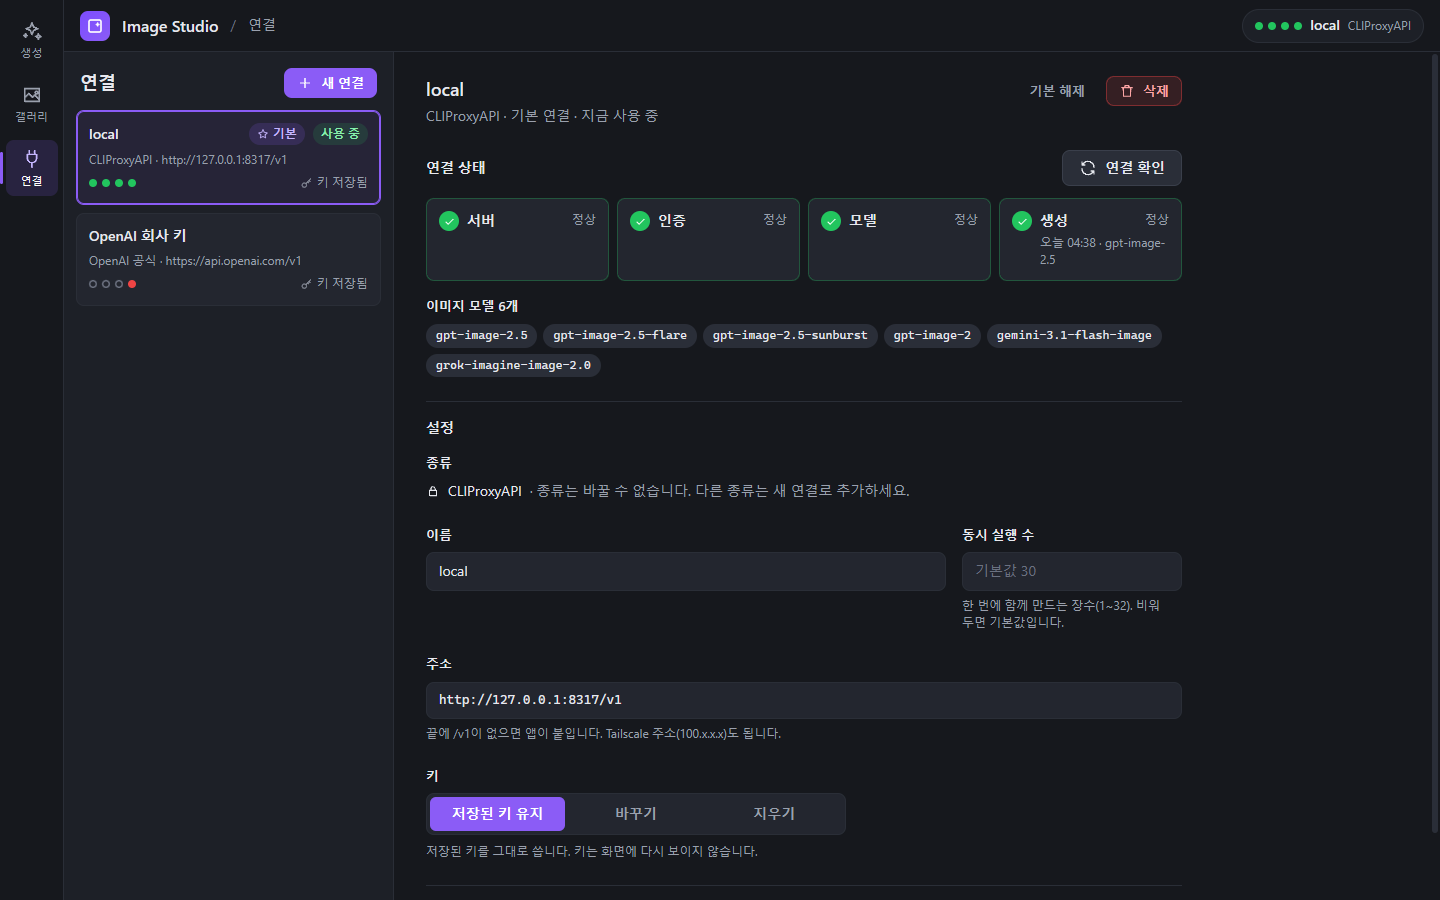
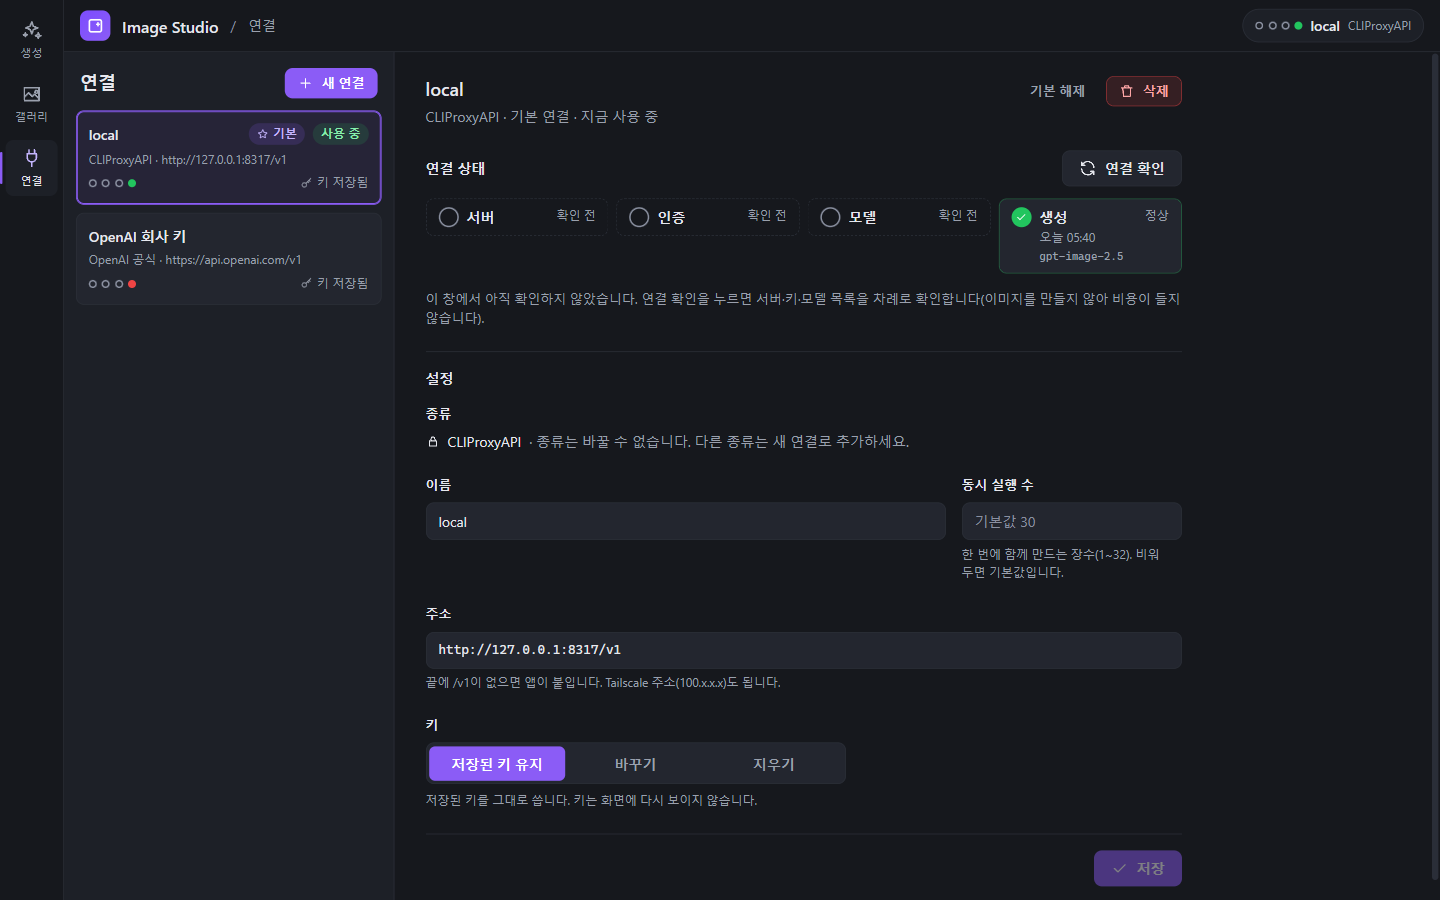
fix(studio): default to high quality and refresh screenshots

diff --git a/apps/studio/src/lib/generateForm.test.ts b/apps/studio/src/lib/generateForm.test.ts
@@ -414,3 +414,10 @@ describe('run header', () => {
     expect(input.resume).toBe(false);
   });
 });
+
+describe('emptyForm', () => {
+  it('starts at the project default for final images: 1920x1080, high quality, one image', () => {
+    const f = emptyForm();
+    expect([f.size, f.quality, f.count]).toEqual(['1920x1080', 'high', 1]);
+  });
+});

diff --git a/apps/studio/src/lib/generateForm.ts b/apps/studio/src/lib/generateForm.ts
@@ -71,7 +71,7 @@ export function emptyForm(): GenerateForm {
     model: '',
     size: '1920x1080',
     customSize: '',
-    quality: 'medium',
+    quality: 'high',
     count: 1,
     references: [],
     transparent: false,

diff --git a/README.md b/README.md
@@ -148,7 +148,7 @@ pnpm --dir apps/studio dev                           # 브라우저만으로 화
 
 앱 설정은 `%APPDATA%\ImageStudio\settings.json`(첫 실행 때 생김, `IMAGE_STUDIO_HOME`이 있으면 그 폴더)에 저장됩니다. 생성 결과는 `<작업 폴더>\ImageGallery\output\<주제>\`에 저장됩니다.
 
-스크린샷(목업 응답, 1440×900 / 1100×700): [생성 중](apps/studio/docs/screenshots/generate-running-1440.png) · [생성 완료](apps/studio/docs/screenshots/generate-done-1440.png) · [투명 생성](apps/studio/docs/screenshots/generate-done-1100.png) · [갤러리](apps/studio/docs/screenshots/gallery-1440.png) · [연결 확인](apps/studio/docs/screenshots/connections-1440.png) · [연결 확인 실패](apps/studio/docs/screenshots/connections-1100.png) · [첫 실행](apps/studio/docs/screenshots/first-run-generate-1440.png)
+스크린샷(목업 응답, 1440×900 / 1100×700): [빈 생성 화면](apps/studio/docs/screenshots/generate-empty-1440.png) · [생성 중](apps/studio/docs/screenshots/generate-running-1440.png) · [생성 완료](apps/studio/docs/screenshots/generate-done-1440.png) · [투명 생성](apps/studio/docs/screenshots/generate-done-1100.png) · [갤러리](apps/studio/docs/screenshots/gallery-1440.png) · [연결 확인](apps/studio/docs/screenshots/connections-1440.png) · [연결 확인 실패](apps/studio/docs/screenshots/connections-1100.png) · [첫 실행](apps/studio/docs/screenshots/first-run-generate-1440.png)
 
 검증(2026-10-19): `cargo test --workspace`, `pnpm --dir apps/studio test`·`check`·`build`, 디버그 앱 실행(창 표시, 10초 유지, 첫 실행 settings.json 생성), 앱 서비스 경로로 실제 1장 생성(`cargo test -p studio --test real_proxy -- --ignored --test-threads=1`, `local` 프로필, `gpt-image-2.5` low 1024×1024 → `ImageGallery/output/studio-app-smoke-20261018/`). 이 테스트는 실제 비용이 드는 1장을 만들고, 같은 폴더가 이미 있으면 덮어쓰지 않고 멈춥니다.
 
